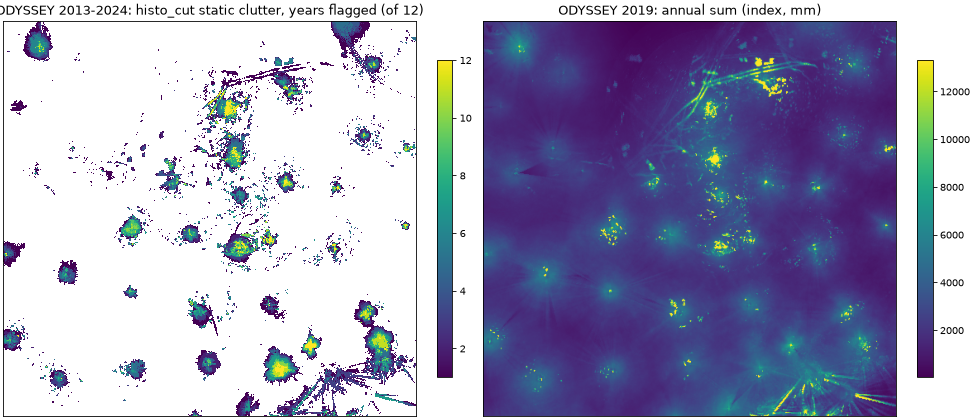
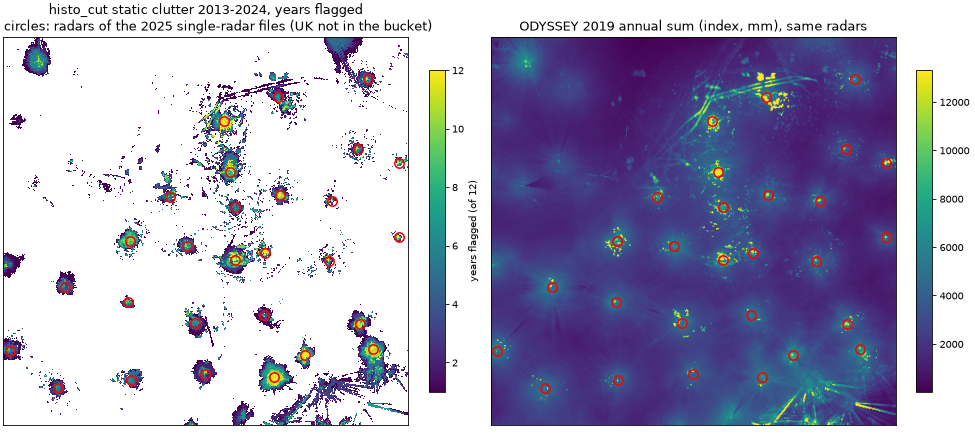
H2: histo_cut discs sit on the radars; radar periods from how/nodes
method.md: radar positions (2025 single-radar files) over the histo_cut map;
the flagged discs are the near-radar excess of the maximum composite, so the
static mask of the first version is based on the frequency maps and the
points above 70 dBZ (review of #74).
data.md: new section on the radars listed in how/nodes of all ODYSSEY crops,
with first and last day and the longest absence of each radar of the domain.

diff --git a/docs/data.md b/docs/data.md
@@ -199,6 +199,87 @@ OPERA.
 - **Only from 2024.** Single-radar files are not in the bucket before 2024, so
   the processing of 2012–2023 cannot be checked this way.
 
+### Radars in the ODYSSEY composites (`how/nodes`)
+
+Each composite lists the radars it was made from in `how/nodes`, and so do
+our crops. ODYSSEY writes `NOD:bewid,...` and CIRRUS writes `bewid, ...`.
+
+I read this attribute in all 400,337 ODYSSEY crops on 10/11/2026 (results in
+`results/h2_artefacts/nodes_odyssey.csv`, not in git). A radar counts as
+listed on a day when it is in at least half of that day's composites. Days
+with no composite are left out, so a gap in the archive is not counted as an
+absence.
+
+The table covers two groups of radars:
+- the radars of the 2025 single-radar files that lie within 100 km of the
+  Belgian crop;
+- five radars of Germany and the Netherlands that stopped during the period.
+
+The UK radars are missing: the bucket has no UK single-radar files, so their
+position is unknown.
+
+The archive becomes regular only in April 2013 (*Known problems*). So a
+"first day" before that date is the start of the readable archive, not
+necessarily the radar's.
+
+| node | first day | last day | days listed / days in its period | longest absence, days |
+|---|---|---|---:|---|
+| `behel` | 21/3/2018 | 5/7/2024 | 1,980 / 2,293 | 258 (17/6/2020 to 1/3/2021) |
+| `bejab` | 27/11/2014 | 5/7/2024 | 3,153 / 3,503 | 98 (6/11/2015 to 11/2/2016) |
+| `bewid` | 26/3/2013 | 5/7/2024 | 3,730 / 4,114 | 124 (8/4/2022 to 9/8/2022) |
+| `deasb` | 24/4/2018 | 5/7/2024 | 2,024 / 2,259 | 170 (18/6/2018 to 4/12/2018) |
+| `deboo` | 28/1/2014 | 5/7/2024 | 3,722 / 3,806 | 29 (27/7/2016 to 24/8/2016) |
+| `deeis` | 4/9/2012 | 5/7/2024 | 3,719 / 4,177 | 229 (6/6/2013 to 20/1/2014) |
+| `deemd` | 4/9/2012 | 27/2/2018 | 1,565 / 1,863 | 180 (22/7/2015 to 17/1/2016) |
+| `deess` | 27/3/2013 | 5/7/2024 | 4,032 / 4,113 | 29 (27/7/2016 to 24/8/2016) |
+| `defbg` | 5/2/2019 | 5/7/2024 | 1,945 / 1,972 | 5 (8/7/2023 to 12/7/2023) |
+| `defld` | 4/9/2012 | 5/7/2024 | 3,727 / 4,177 | 197 (29/4/2014 to 11/11/2014) |
+| `deflg` | 22/1/2013 | 4/2/2019 | 2,140 / 2,199 | 29 (27/7/2016 to 24/8/2016) |
+| `deham` | 4/9/2012 | 23/1/2014 | 366 / 367 | 1 (14/3/2013 to 14/3/2013) |
+| `dehan` | 4/9/2012 | 22/4/2015 | 360 / 821 | 317 (26/3/2013 to 5/2/2014) |
+| `dehnr` | 23/4/2015 | 5/7/2024 | 3,282 / 3,356 | 29 (27/7/2016 to 24/8/2016) |
+| `deisn` | 28/1/2014 | 5/7/2024 | 3,707 / 3,806 | 30 (27/7/2016 to 25/8/2016) |
+| `demem` | 12/6/2013 | 5/7/2024 | 3,879 / 4,036 | 68 (14/1/2023 to 22/3/2023) |
+| `deneu` | 26/3/2013 | 5/7/2024 | 4,031 / 4,114 | 29 (27/7/2016 to 24/8/2016) |
+| `denhb` | 4/9/2012 | 5/7/2024 | 3,750 / 4,177 | 252 (28/8/2013 to 6/5/2014) |
+| `deoft` | 4/9/2012 | 5/7/2024 | 4,099 / 4,177 | 30 (26/7/2016 to 24/8/2016) |
+| `deros` | 4/9/2012 | 5/7/2024 | 3,686 / 4,177 | 390 (13/6/2013 to 7/7/2014) |
+| `detur` | 4/9/2012 | 5/7/2024 | 3,717 / 4,177 | 397 (5/4/2013 to 6/5/2014) |
+| `deumd` | 4/9/2012 | 3/7/2024 | 3,738 / 4,175 | 300 (14/2/2013 to 16/12/2013) |
+| `frabb` | 4/9/2012 | 5/7/2024 | 4,125 / 4,177 | 11 (17/3/2019 to 27/3/2019) |
+| `frave` | 4/9/2012 | 5/7/2024 | 4,106 / 4,177 | 25 (2/5/2020 to 26/5/2020) |
+| `frbla` | 4/9/2012 | 5/7/2024 | 4,120 / 4,177 | 11 (9/8/2013 to 19/8/2013) |
+| `frbou` | 4/9/2012 | 5/7/2024 | 4,015 / 4,177 | 94 (23/4/2018 to 25/7/2018) |
+| `frcae` | 4/9/2012 | 5/7/2024 | 3,969 / 4,177 | 122 (25/2/2014 to 26/6/2014) |
+| `frche` | 4/9/2012 | 5/7/2024 | 4,034 / 4,177 | 17 (16/1/2022 to 1/2/2022) |
+| `frgre` | 4/9/2012 | 5/7/2024 | 4,139 / 4,177 | 7 (17/4/2019 to 23/4/2019) |
+| `frlep` | 4/9/2012 | 5/7/2024 | 3,889 / 4,177 | 190 (10/9/2013 to 18/3/2014) |
+| `frmtc` | 4/9/2012 | 5/7/2024 | 3,942 / 4,177 | 73 (9/10/2019 to 20/12/2019) |
+| `frnan` | 4/9/2012 | 5/7/2024 | 3,981 / 4,177 | 141 (16/5/2017 to 3/10/2017) |
+| `frniz` | 4/9/2012 | 5/7/2024 | 3,999 / 4,177 | 155 (15/9/2015 to 16/2/2016) |
+| `frtra` | 4/9/2012 | 5/7/2024 | 4,163 / 4,177 | 3 (7/3/2020 to 9/3/2020) |
+| `frtre` | 4/9/2012 | 5/7/2024 | 3,949 / 4,177 | 211 (8/3/2016 to 4/10/2016) |
+| `frtro` | 4/9/2012 | 5/7/2024 | 3,939 / 4,177 | 161 (18/5/2015 to 25/10/2015) |
+| `nldbl` | 4/9/2012 | 19/1/2017 | 1,397 / 1,459 | 50 (29/1/2013 to 19/3/2013) |
+| `nldhl` | 4/9/2012 | 5/7/2024 | 3,853 / 4,177 | 113 (10/10/2016 to 30/1/2017) |
+| `nlhrw` | 19/5/2017 | 5/7/2024 | 2,567 / 2,599 | 8 (21/6/2017 to 28/6/2017) |
+
+- **Radars that start or stop within the period:**
+  - `bejab` starts on 27/11/2014 and `behel` on 21/3/2018.
+  - `nlhrw` starts on 19/5/2017, four months after the last day of `nldbl`
+    (19/1/2017).
+  - In Germany, `deboo` starts on 28/1/2014, five days after the last day of
+    `deham`. `dehnr` starts on 23/4/2015, the day after the last day of
+    `dehan`. `deasb` starts on 24/4/2018, after `deemd` ends on 27/2/2018.
+    `defbg` starts on 5/2/2019, the day after the last day of `deflg`.
+- **Long absences.** Several radars are missing for months, for example:
+  - `behel` 258 days (2020–2021);
+  - `bewid` 124 days (2022);
+  - `deros` 390 days (2013–2014).
+- **A common absence.** From 28/7 to 23/8/2016 no German radar is listed in
+  any composite. The radars of the table are missing from 26–27/7 to
+  24–25/8/2016.
+
 ## Known problems
 
 - **Outliers in ODYSSEY.** For example on 3/7/2024 12:00 a group of 4 pixels

diff --git a/docs/method.md b/docs/method.md
@@ -549,6 +549,11 @@ What the collection shows:
   sums; Wagner-style frequency maps for the catalogue. `histo_cut` and the
   frequency maps fit the rule when the mask is computed on past composites and
   applied to new ones.
+- **Static mask of the first version** (review of #74, 10/11/2026). On our
+  maximum composite, `histo_cut` on the annual sum flags discs that sit on the
+  radars: they are the excess near each radar, not clutter (*Catalogue:
+  ODYSSEY 2013–2024*). So the static mask is based on the frequency maps
+  (Wagner et al. 2012) and on the points above 70 dBZ.
 - **Satellite mask:** not in the operational chain, and left out of the
   first version (review of #74: first a result on the composite alone, then
   improvements). A possible later improvement for ODYSSEY 2012–2015 only, to
@@ -691,11 +696,18 @@ next year. So the mask must be stable from year to year.
 - **What the stable pixels are:** the centres of the discs and the fixed
   points. The outer rings of the discs change from year to year, as rain
   would.
-- **What the discs are.** The annual sums show regularly spaced bright discs,
-  each with radial structure. This is consistent with radar sites, but the
-  positions were not checked. The sum falls with distance from each radar.
-  So, with 5% tails, `histo_cut` mixes clutter with this decrease. Wagner et
-  al. (2012) correct the decrease separately, as beam height.
+- **The discs sit on the radars** (review of #74). The radar positions come
+  from the 2025 single-radar files (`scripts/fetch_pvol_positions.py`); the UK
+  radars have no files in the bucket.
+  - Of the 44 discs flagged in at least 6 years (at least 20 pixels each), 26
+    have their centre within 10 km of a radar.
+  - Of the pixels flagged in at least 10 years, 75% lie within 20 km of a
+    radar, against 3.7% of the crop.
+  - So the discs are the excess of a maximum composite near each radar, where
+    the beam is low, and not clutter. With 5% tails, `histo_cut` on the
+    annual sum removes rain there.
+  - For the first version, the static mask is to be based on the frequency
+    maps (Wagner et al. 2012) and on the points above 70 dBZ instead.
 - **Bug in wradlib 2.9.8.** `histo_cut` fails when its input has NaN: it
   starts from `max()`, not `nanmax()`. In 2013 there are 337 crop pixels that
   are never covered. The notebook therefore passes only the pixels with at
